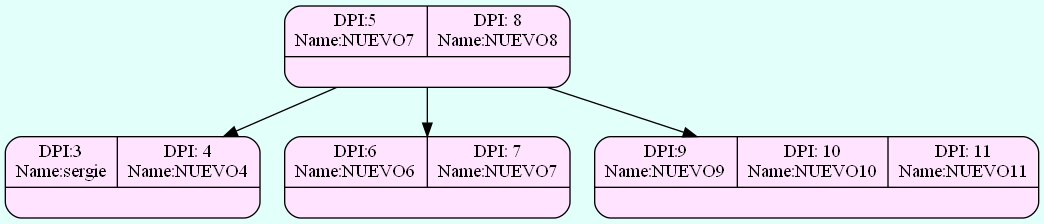
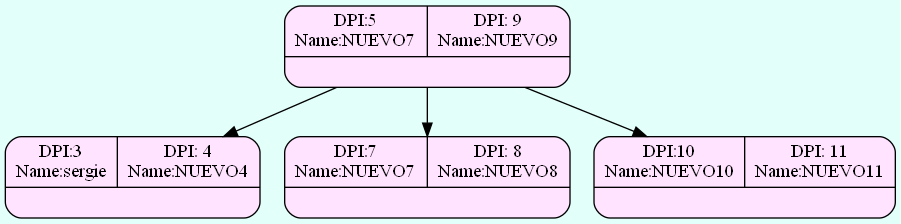
primer caso hermano derecho presta

diff --git a/FASE 2/src/storage/ArbolB.java b/FASE 2/src/storage/ArbolB.java
@@ -397,43 +397,80 @@ public class ArbolB {
 			if (RamaIz.contador > 2) {
 				validacion = true;
 				System.out.println("En izquierda hay espacio");
-			}else {
+			} else {
 				System.out.println("En izquierda NO hay espacio");
 			}
-			
-		}else {
+
+		} else {
 			System.out.println("No iz");
 		}
-		
+
 		if (!validacion) {
 			if (RamaDer != null) {
 				System.out.println("Derecho: " + RamaDer.primero.id);
-				
+
 				if (RamaDer.contador > 2) {
 					validacion = true;
 					System.out.println("En derecha hay espacio");
 					PrestarDerecha();
-				}else {
+				} else {
 					System.out.println("En derecha NO hay espacio");
 				}
-				
-				
+
 			} else {
 				System.out.println("No der");
 			}
 		}
 	}
 
-	
 	public void PrestarDerecha() {
 		System.out.println("Separador: " + PadreDer.id);
-		//raiz.primero.siguiente = null;
+
+		// guardando encabezado
+		NodoB temp = PadreDer.derecha.primero;
+		PadreDer.derecha.contador--;
+
+		// cambiando encabezado
+		PadreDer.derecha.primero = PadreDer.derecha.primero.siguiente;
+		PadreDer.derecha.primero.anterior = null;
+
+		// modificando el ex primero
+		temp.siguiente = PadreDer.siguiente;
+		temp.anterior = PadreDer.anterior;
+		temp.derecha = PadreDer.derecha;
+		temp.izquierda = PadreDer.izquierda;
+
+		// borrando enlaces de los padres
+		if (PadreDer.anterior != null) {
+			PadreDer.anterior.siguiente = temp;
+		}
+
+		if (PadreDer.siguiente != null) {
+			PadreDer.siguiente.anterior = temp;
+		}
+
+		// borando ramas del padre
+		PadreDer.siguiente = null;
+		PadreDer.derecha = null;
+		PadreDer.izquierda = null;
+		// NodeRemove
+
+		// colocar el temp en la pagina desbalanceada
+		if (RamaRemove.primero == NodeRemove) {
+			RamaRemove.primero = NodeRemove.siguiente;
+			RamaRemove.primero.anterior = null;
+		}
+		
+		RamaRemove.primero.siguiente = PadreDer;
+		PadreDer.anterior = RamaRemove.primero;
+
+		// raiz.primero.siguiente = null;
 	}
-	
+
 	public void PrestarIzquierda() {
-			
+
 	}
-	
+
 	public void Removing(NodoB temp) {
 		System.out.println("Hojas: " + RamaRemove.contador);
 		System.out.println("Hoja id:" + temp.id);
@@ -472,24 +509,24 @@ public class ArbolB {
 			if (temp.compareTo(id) == 0) {
 				NodeRemove = aux;
 				RamaRemove = raiz;
-				
+
 				if (padre.izquierda == raiz) {
 					RamaDer = padre.derecha;
 					PadreDer = padre;
 					if (RamaDer == null) {
 						if (padre.siguiente != null) {
 							RamaDer = padre.siguiente.izquierda;
-							PadreDer =  padre.siguiente;
+							PadreDer = padre.siguiente;
 						}
 					}
 
 					if (padre.anterior != null) {
 						RamaIz = padre.anterior.izquierda;
-						PadreIz =  padre.anterior;
+						PadreIz = padre.anterior;
 					} else {
 						RamaIz = null;
 					}
-					
+
 				} else if (padre.derecha == raiz) {
 					RamaIz = padre.izquierda;
 					PadreIz = padre;
